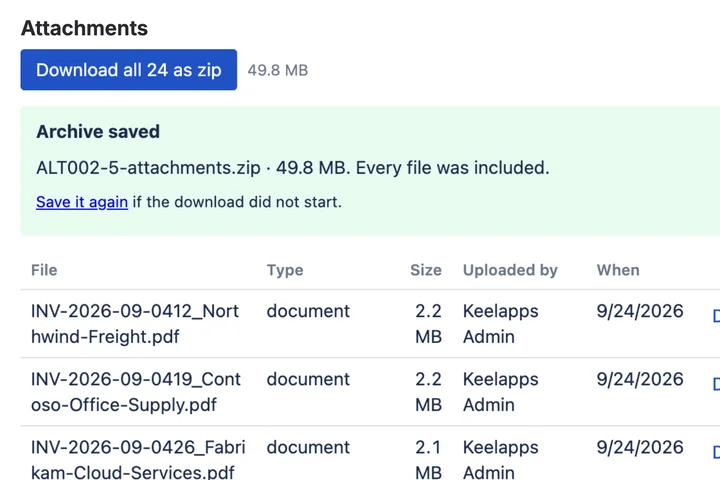
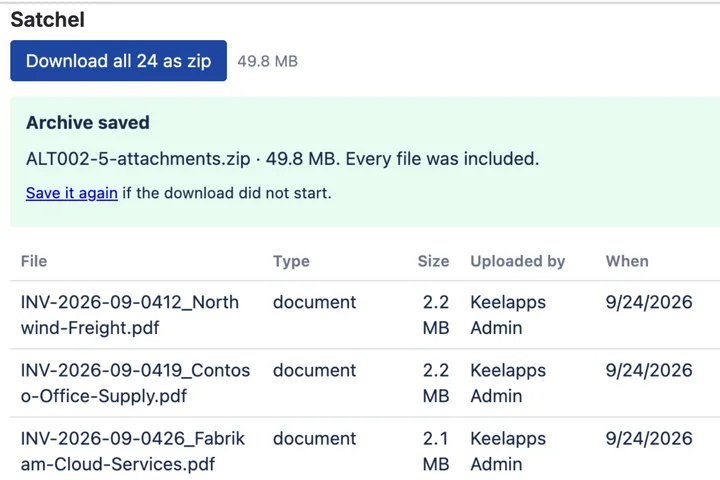
Satchel for Jira: the demo re-shot on 2.3.0, and a poster with the panel's new name
The embedded demo is RTivIRoq6PI (1:04), recorded on the production install
after 2.3.0: the issue panel is called Satchel, inventories count only the
issues you can see, and the delete preview lists every file Jira confirmed.
The poster and the home page card are re-cut from the same install; the old
ones showed the panel as 'Attachments'.

diff --git a/satchel/index.html b/satchel/index.html
@@ -58,9 +58,9 @@
           "name": "Satchel for Jira — zip every attachment in a JQL search or project",
           "description": "Zip every attachment on a Jira issue, a JQL result or a whole project, foldered by issue key. Then see what is in there: duplicate candidates, storage by uploader, the biggest files, CSV. The archive is built in your browser.",
           "thumbnailUrl": "https://keelapps.app/assets/screenshots/satchel-issue-panel.png",
-          "uploadDate": "2026-09-26T09:27:00+03:00",
-          "duration": "PT1M5S",
-          "embedUrl": "https://www.youtube-nocookie.com/embed/jdjsobpq7SY"
+          "uploadDate": "2026-09-29T03:58:00+03:00",
+          "duration": "PT1M4S",
+          "embedUrl": "https://www.youtube-nocookie.com/embed/RTivIRoq6PI"
         }
       }
     </script>
@@ -143,8 +143,8 @@
       <figure class="showcase" id="demo">
         <iframe
           class="showcase__player"
-          src="https://www.youtube-nocookie.com/embed/jdjsobpq7SY"
-          srcdoc="<style>*{margin:0;padding:0}html,body{height:100%;overflow:hidden;background:#0F2536}a{display:block;height:100%;position:relative}img{display:block;width:100%;height:100%;object-fit:cover}span{position:absolute;inset:0;margin:auto;width:5rem;height:5rem;border-radius:50%;background:rgba(15,37,54,.86);color:#F4EFE6;display:grid;place-items:center;font:2rem/1 sans-serif}a:hover span{background:rgba(15,37,54,1)}</style><a href='https://www.youtube-nocookie.com/embed/jdjsobpq7SY?autoplay=1' aria-label='Play the Satchel for Jira product demo'><img src='/assets/screenshots/satchel-issue-panel.png' alt=''><span>&#9654;</span></a>"
+          src="https://www.youtube-nocookie.com/embed/RTivIRoq6PI"
+          srcdoc="<style>*{margin:0;padding:0}html,body{height:100%;overflow:hidden;background:#0F2536}a{display:block;height:100%;position:relative}img{display:block;width:100%;height:100%;object-fit:cover}span{position:absolute;inset:0;margin:auto;width:5rem;height:5rem;border-radius:50%;background:rgba(15,37,54,.86);color:#F4EFE6;display:grid;place-items:center;font:2rem/1 sans-serif}a:hover span{background:rgba(15,37,54,1)}</style><a href='https://www.youtube-nocookie.com/embed/RTivIRoq6PI?autoplay=1' aria-label='Play the Satchel for Jira product demo'><img src='/assets/screenshots/satchel-issue-panel.png' alt=''><span>&#9654;</span></a>"
           width="1840"
           height="900"
           title="Satchel for Jira — zip every attachment in a JQL search or project (product demo)"
@@ -156,7 +156,7 @@
         <figcaption>
           Ninety-six attachments across a project: a JQL search, a filter, and one zip with a
           folder per issue. The archive is built in your browser.
-          <a href="https://www.youtube.com/watch?v=jdjsobpq7SY">Watch on YouTube</a>.
+          <a href="https://www.youtube.com/watch?v=RTivIRoq6PI">Watch on YouTube</a>.
         </figcaption>
       </figure>
 

diff --git a/index.html b/index.html
@@ -245,7 +245,7 @@
             <p class="app-card__name">Satchel for Jira</p>
             <p class="app-card__links">
               <a href="/satchel/">Product page</a>
-              <a href="/satchel/#demo"><svg viewBox="0 0 10 10" aria-hidden="true"><path d="M2 1.2 8.6 5 2 8.8Z" fill="currentColor" /></svg>Demo 1:05</a>
+              <a href="/satchel/#demo"><svg viewBox="0 0 10 10" aria-hidden="true"><path d="M2 1.2 8.6 5 2 8.8Z" fill="currentColor" /></svg>Demo 1:04</a>
               <a href="/satchel/docs/">Docs</a>
             </p>
           </li>
